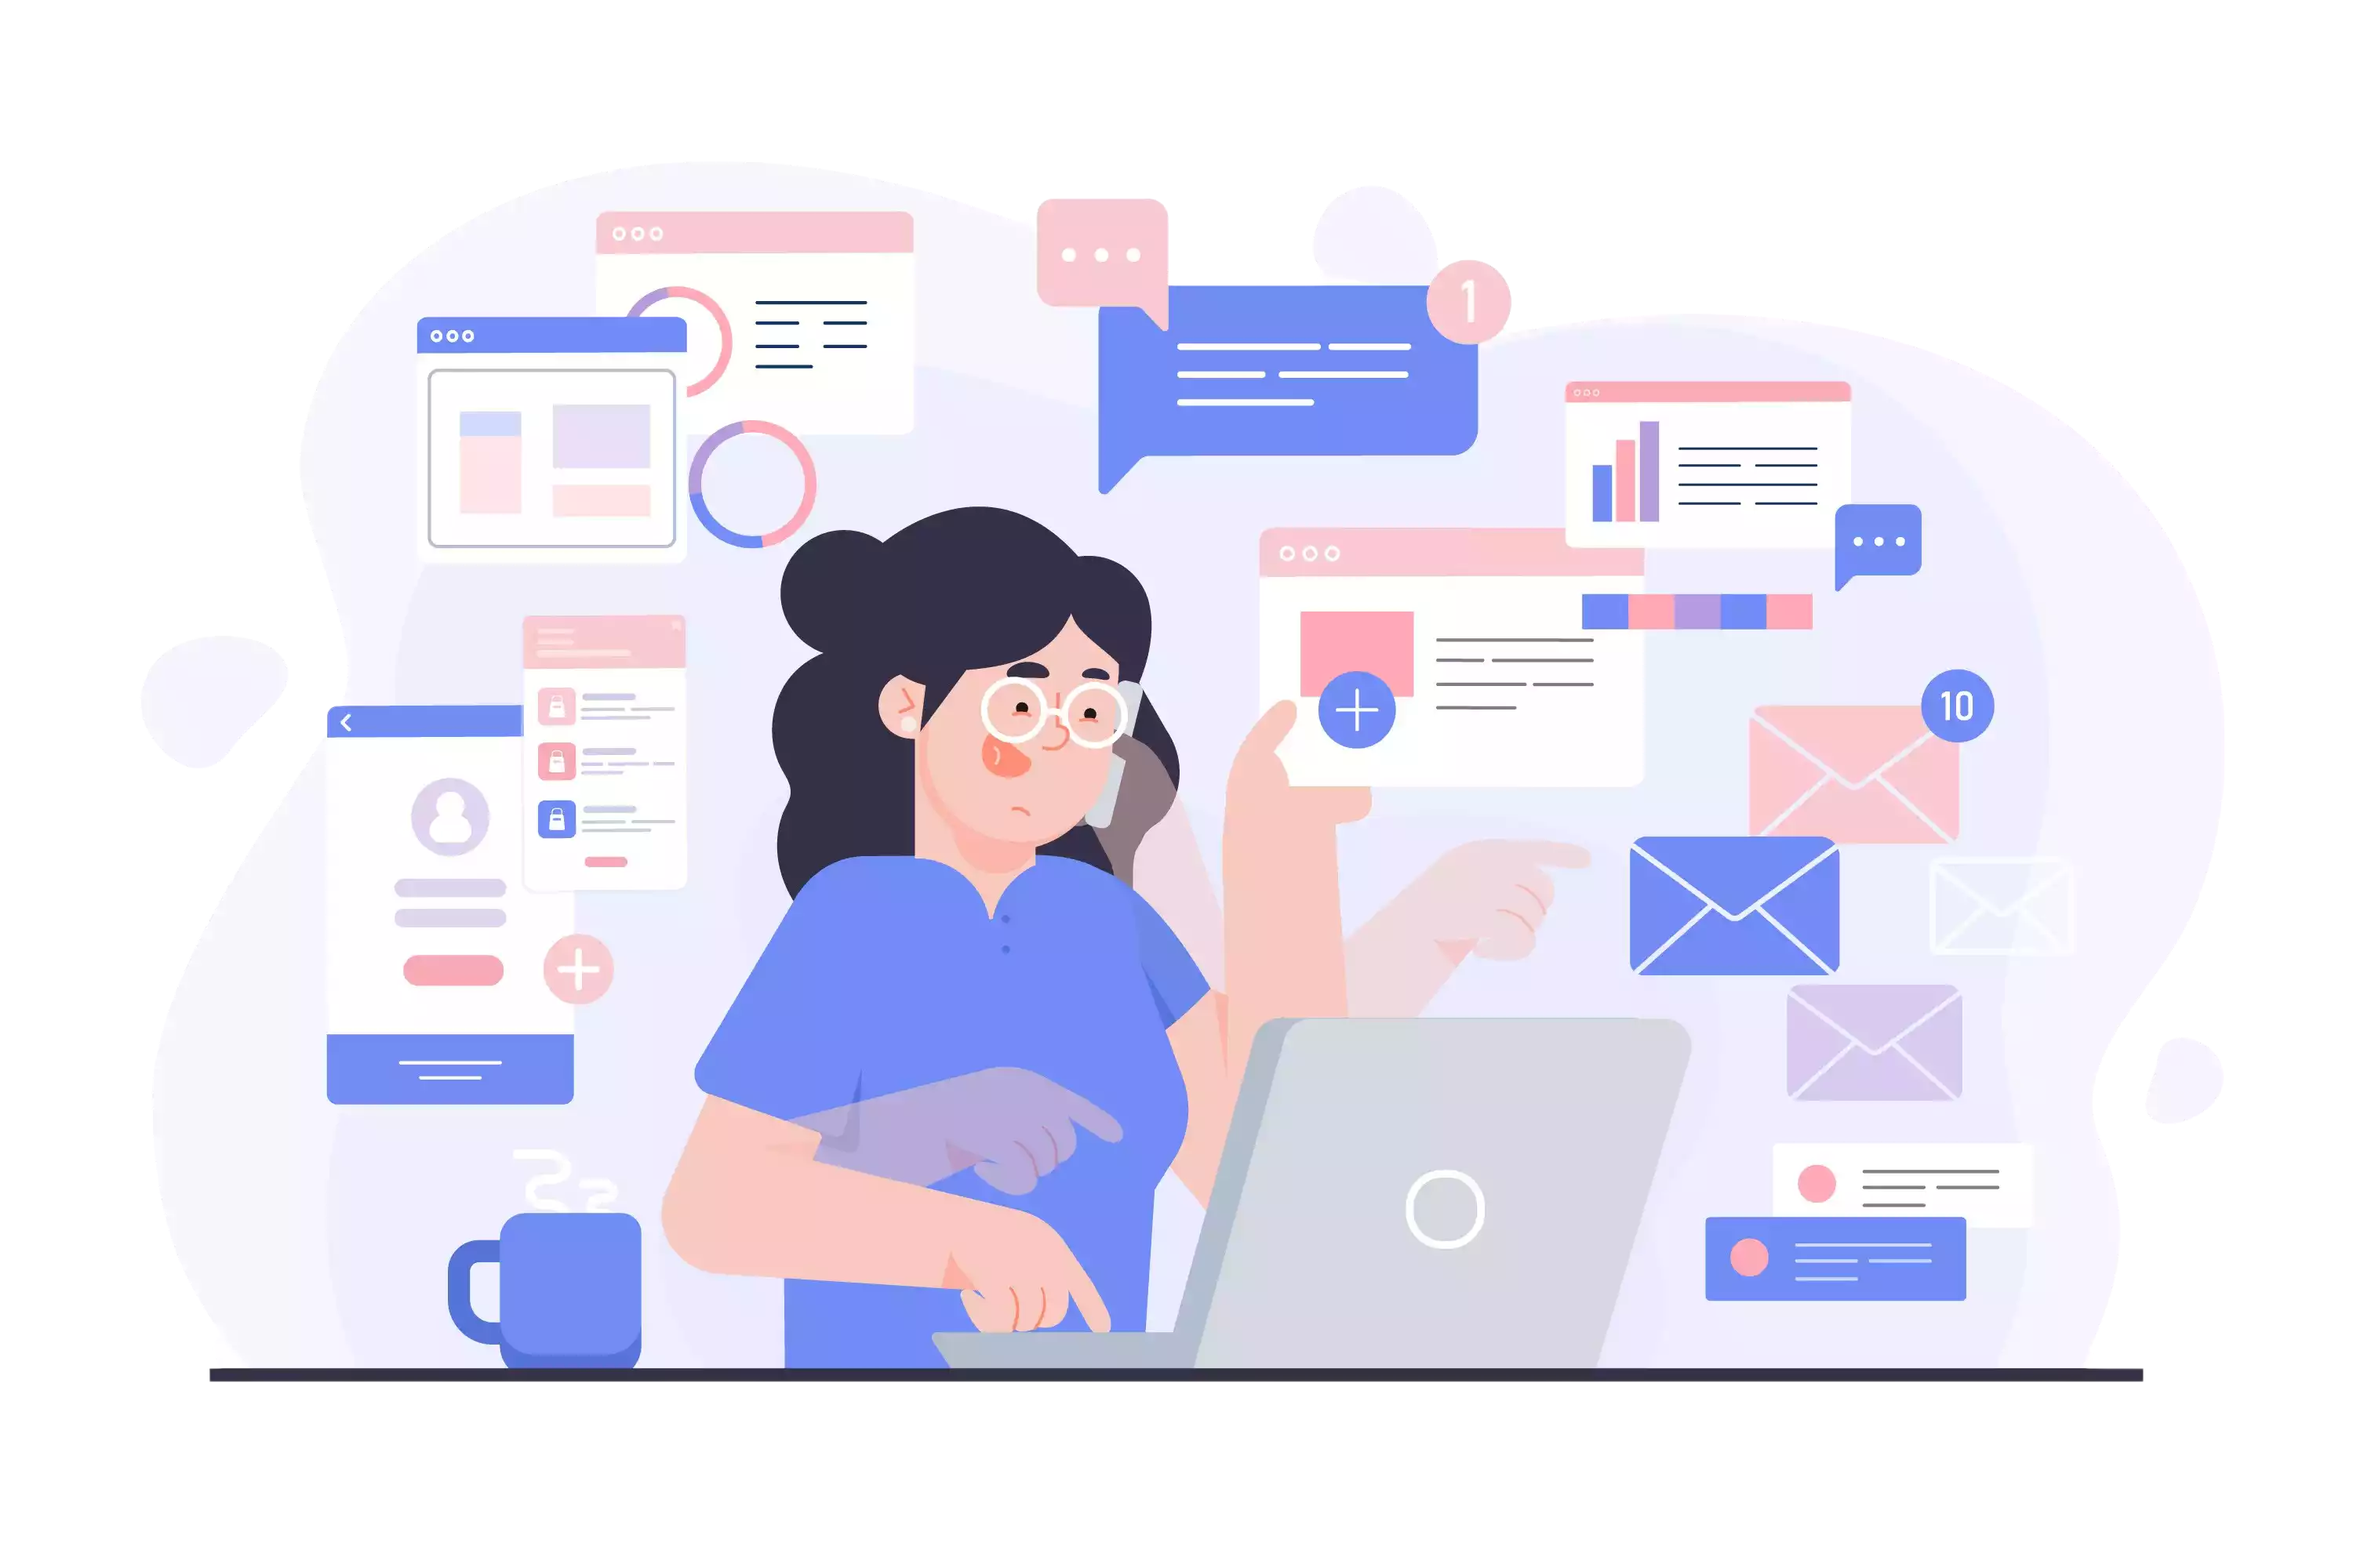
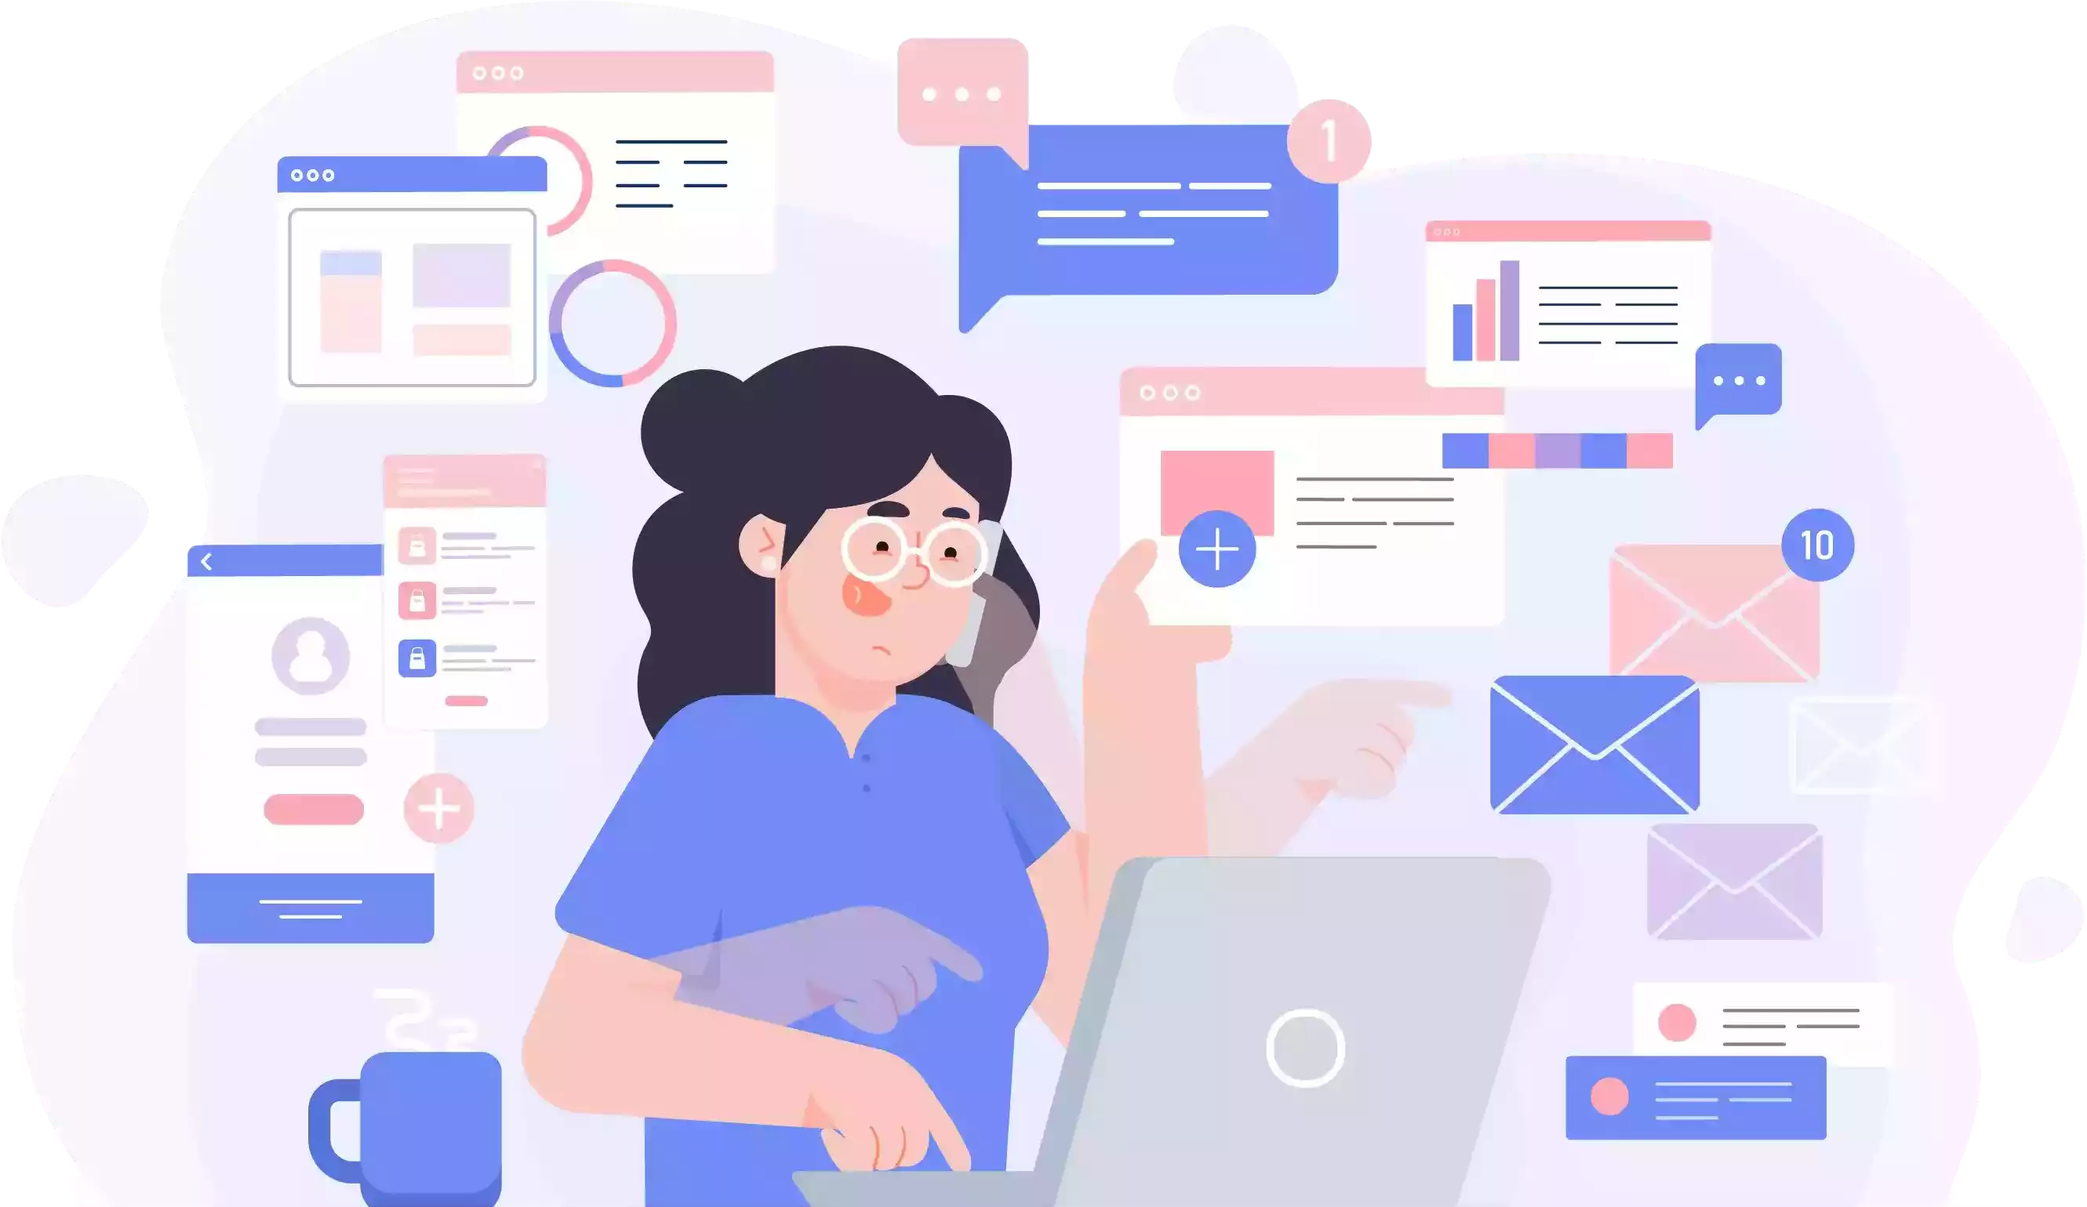
change style image of CmsHome page

diff --git a/src/Page/CmsEmployer/CmsEmployer.tsx b/src/Page/CmsEmployer/CmsEmployer.tsx
@@ -493,11 +493,13 @@ namespace SubPageCms {
         return (
             <>
                 <section className="w-full group mt-8 py-2 px-4 h-36 rounded-lg bg-jv-primary relative">
-                    <img
-                        className="w-6/12 scale-90 absolute -bottom-[2.4rem] left-0 group-hover:scale-100 group-hover:-bottom-[1.83rem] duration-700 ease-in-out"
-                        src="/images/cmsHome.webp"
-                        alt=""
-                    />
+                    <div className="absolute flex flex-row-reverse w-5/12 bottom-0 left-4 overflow-hidden group">
+                        <img
+                            className="w-10/12 group-hover:w-full duration-700 ease-in-out"
+                            src="/images/cmsHome.webp"
+                            alt=""
+                        />
+                    </div>
                     <div className="w-6/12 h-full text-jv-light flex flex-col justify-evenly">
                         <h4>سلامم کارفرمای عزیز</h4>
                         <p className="text-xs">
